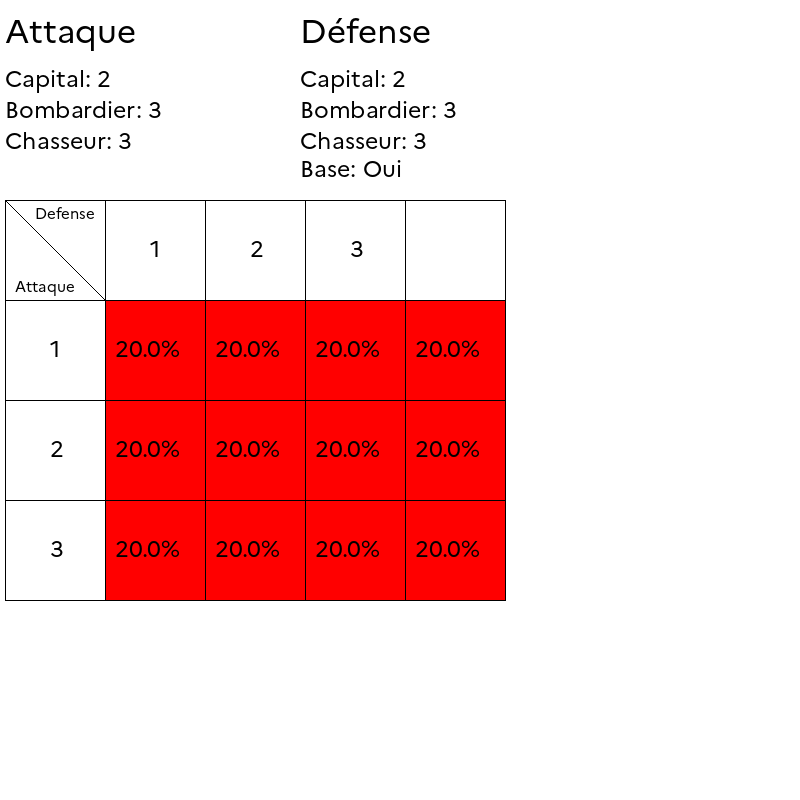
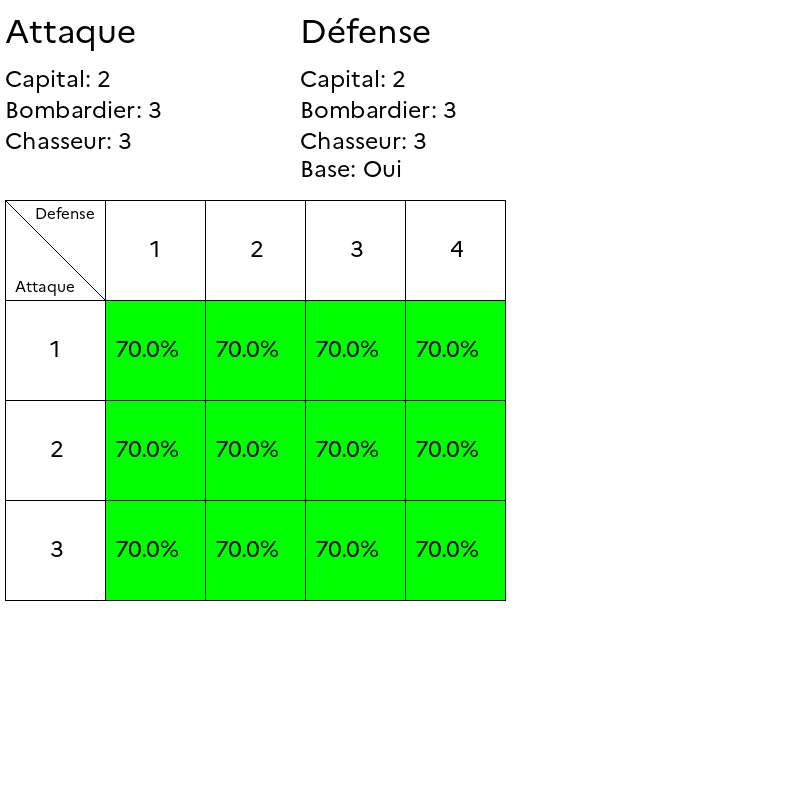
Fix wrong length of tableau

Changed region(s): [[0.125, 0.375, 0.6562, 0.75]]

diff --git a/pilo/pilo.py b/pilo/pilo.py
@@ -109,7 +109,7 @@ class ImageDrawingService:
             self.draw.line([(xpos, tableypos), (xpos, tableypos + hauteurCellule * (len(valueList) + 1))], fill=(0, 0, 0))
 
         #Ecris
-        for i in range(len(valueList)):
+        for i in range(len(valueList[0])):
                 xpos = tablexpos + largeurCellule + i * largeurCellule + 45
                 ypos = tableypos + 30
                 self.draw.text((xpos, ypos), str(i+1), fill=(0,0,0), font=bigGeneralFont)
@@ -127,7 +127,7 @@ class ImageDrawingService:
 
 
 tempConf = Configuration([2,3,3],[2,3,3],True)
-tempCase = Case(0.2,5)
+tempCase = Case(0.7,5)
 service = ImageDrawingService()
 service.draw_data(Tableau(tempConf,[[tempCase,tempCase,tempCase,tempCase],[tempCase,tempCase,tempCase,tempCase],[tempCase,tempCase,tempCase,tempCase]]),dirName,"output")
 
